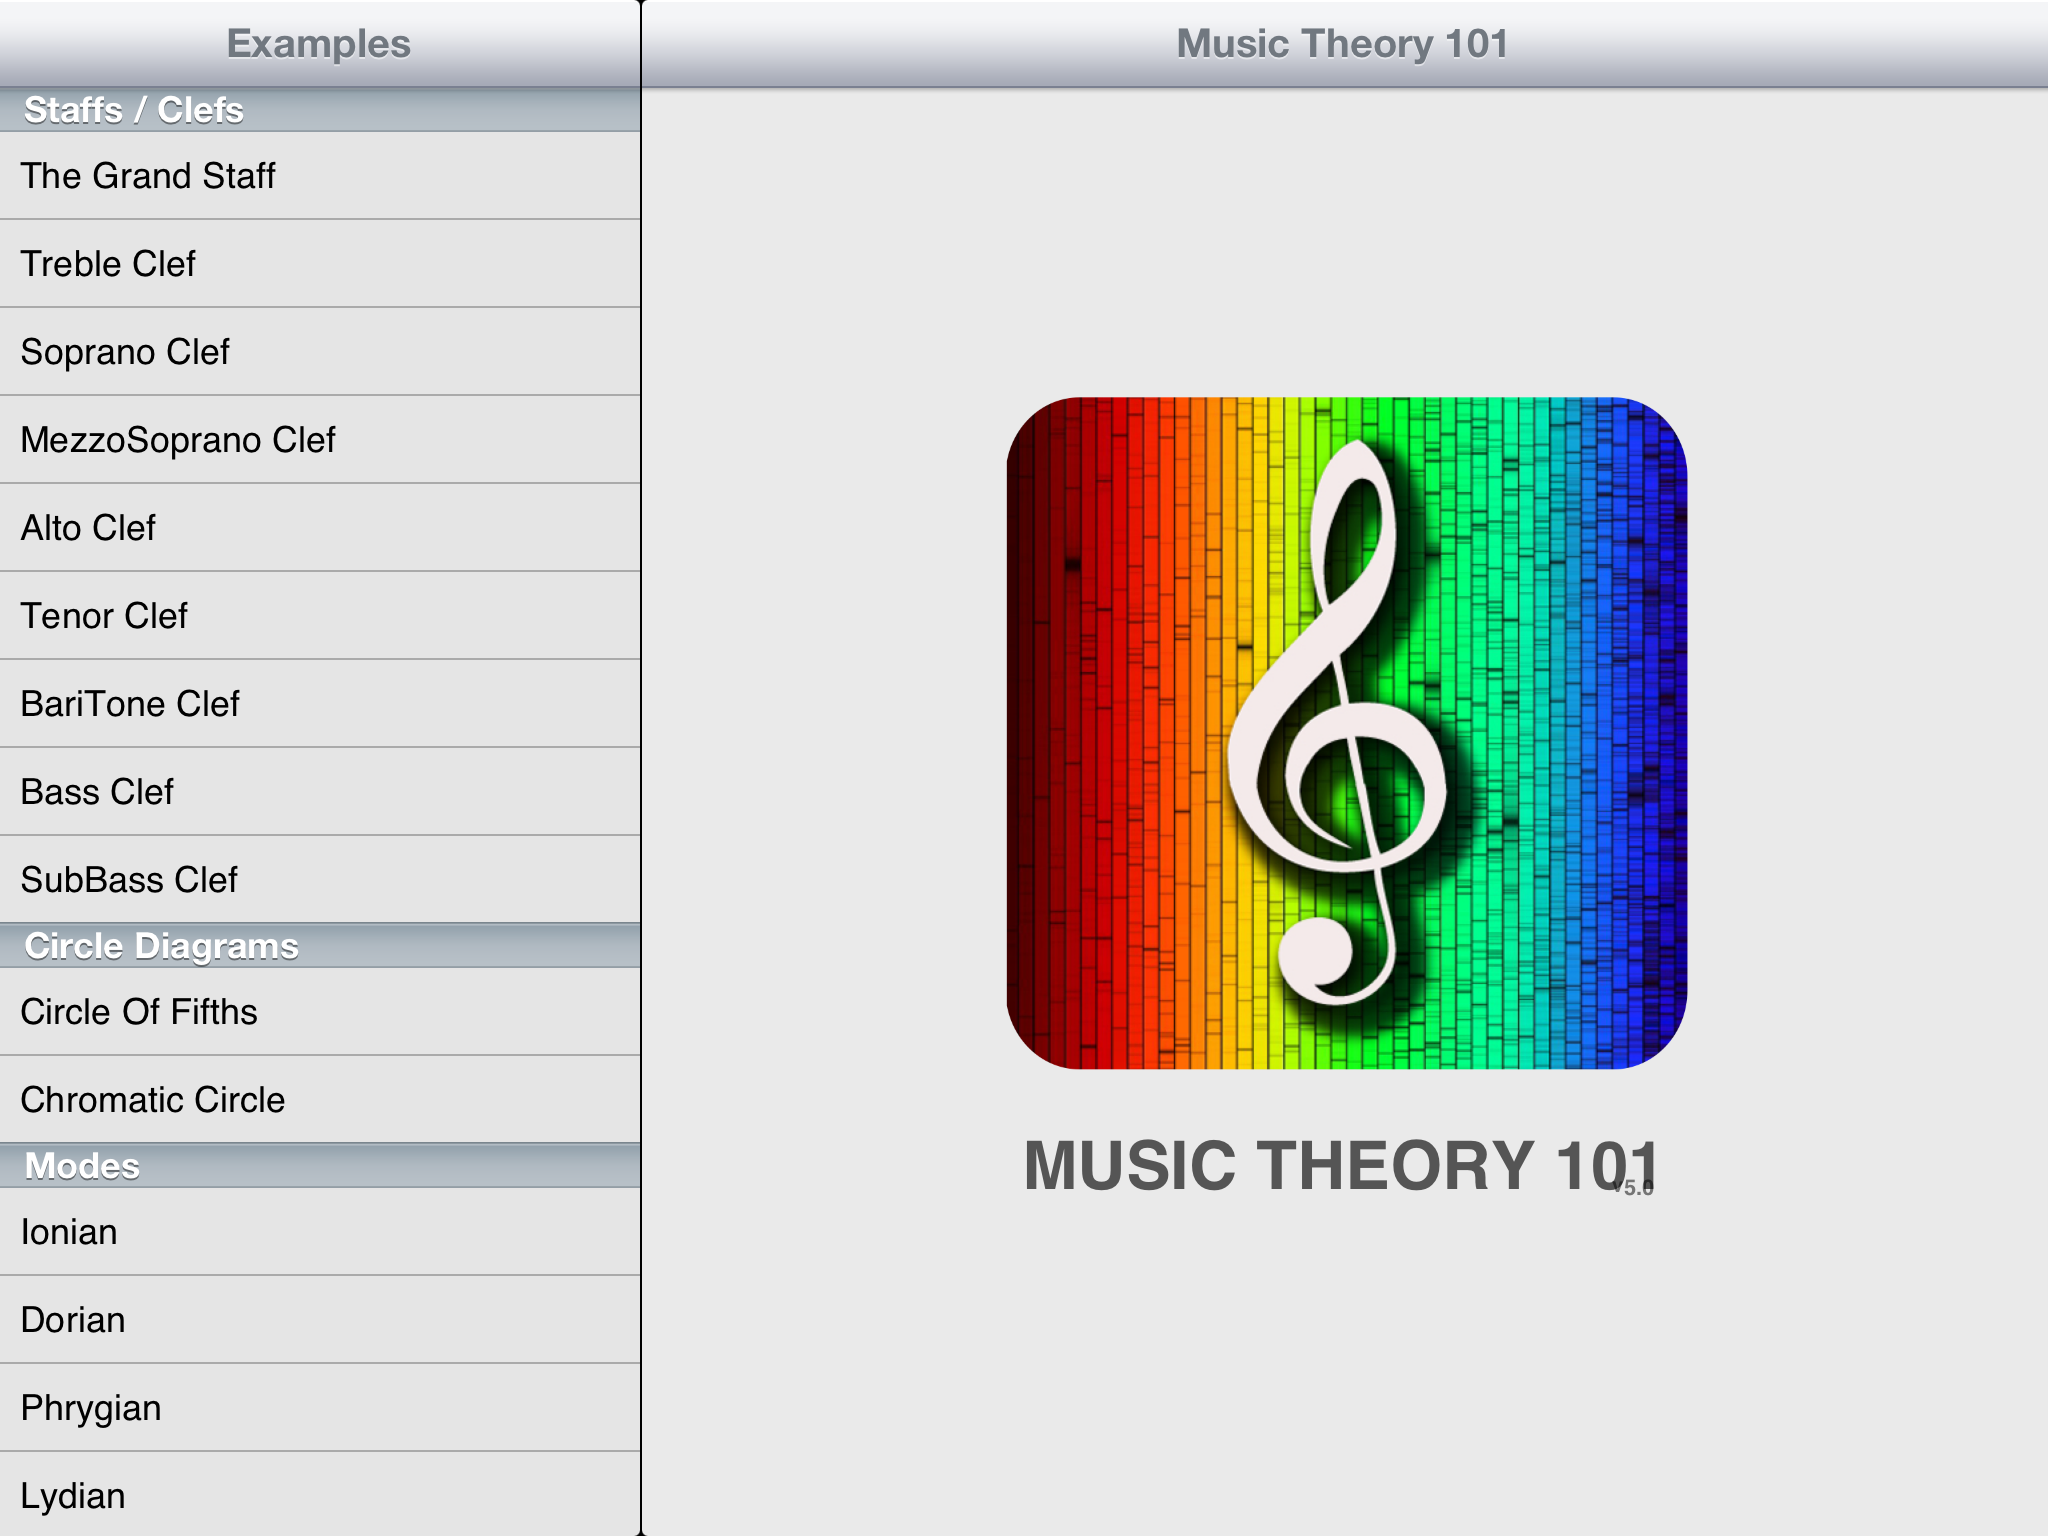
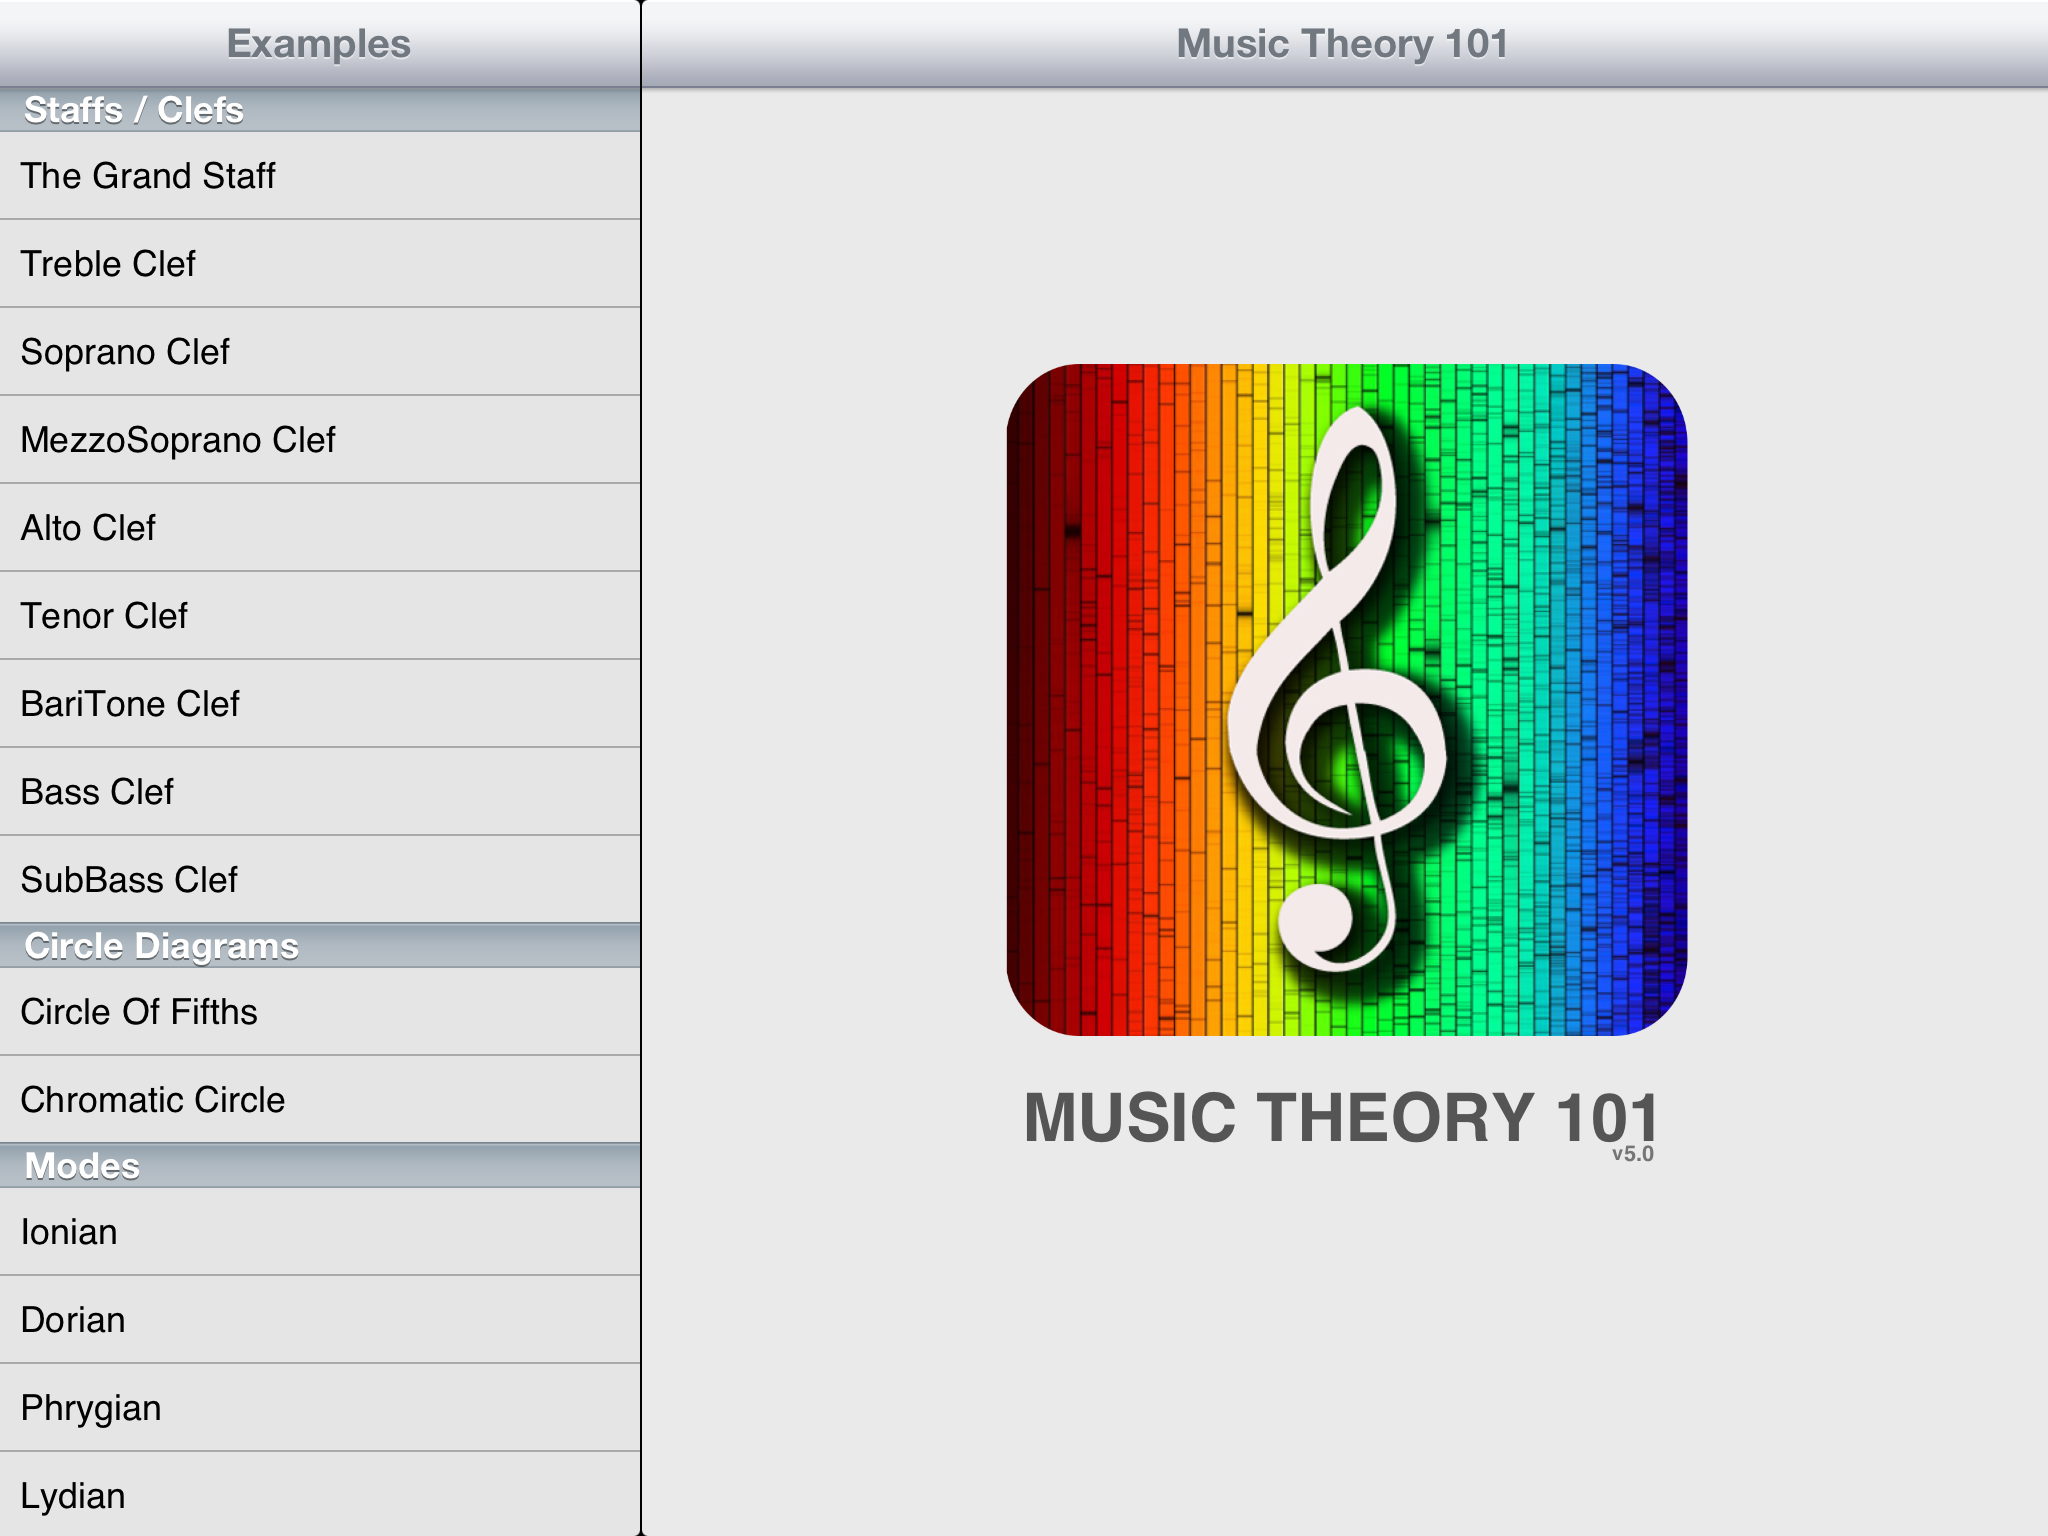
Everything Good….Ready to create video examples I think...

Changed region(s): [[0.4688, 0.2188, 0.8438, 0.7812], [0.5, 0.3438, 0.5312, 0.375]]

diff --git a/MT101/MT101/DetailViewController.m b/MT101/MT101/DetailViewController.m
@@ -402,6 +402,7 @@
     // single tap does nothing for now
 
     if (self.shouldZoom) {
+        self.scrollView.scrollEnabled = TRUE;
 
         NSLog(self.shouldZoom ? @"Yes" : @"No");
         NSLog(@"handleSingleTap");
@@ -417,11 +418,14 @@
         
                 [[self scrollView] setZoomScale:MINIMUM_SCALE animated:TRUE];
                 [[self scrollView] scrollRectToVisible:self.view.frame animated:TRUE];
-        
+                self.scrollView.scrollEnabled = FALSE;
             }
     
     } else {
-        
+        if ([scrollView zoomScale] > 0.0) {//allow user to zoom out if manually zoomed in welcome screen
+                [[self scrollView] setZoomScale:MINIMUM_SCALE animated:TRUE];
+                [[self scrollView] scrollRectToVisible:self.view.frame animated:TRUE];
+            }
         NSLog(self.shouldZoom ? @"Yes" : @"No");
     
     }
@@ -518,7 +522,6 @@
 #endif
 
     if (self.detailItem) {
-        // shouldZoom = NO;
     }
 
     [imageView useWelcomeStyle];
@@ -527,19 +530,19 @@
         // ipad landscape welcome screen formatting
         self.musicTheory101Label.text = @"MUSIC THEORY 101";
         self.musicTheory101Label.frame
-            = CGRectMake([self view].center.x - 163, [self view].center.y + 30, 326, 53);
+            = CGRectMake(imageView.center.x - 163, imageView.center.y + 180, 326, 53);
         [self.musicTheory101Label setFont:[UIFont fontWithName:@"Helvetica-Bold" size:39.0]];
         self.musicTheory101Label.hidden = FALSE;
 
         self.vLabel.text = @"v";
         self.vLabel.frame
-            = CGRectMake([self view].center.x + 82, [self view].center.y + 59.6, 20, 20);
+            = CGRectMake(musicTheory101Label.center.x + 82.5, musicTheory101Label.center.y + 9.6, 20, 20);
         [self.vLabel setFont:[UIFont fontWithName:@"Helvetica-Bold" size:10.0]];
         self.vLabel.hidden = FALSE;
 
         self.detailDescriptionLabel.text = [[[NSBundle mainBundle] infoDictionary] objectForKey:(NSString *)kCFBundleVersionKey];
         self.detailDescriptionLabel.frame
-            = CGRectMake([self view].center.x + 84, [self view].center.y + 60, 30, 20);
+            = CGRectMake(vLabel.center.x-8.5, vLabel.center.y-9.1, 30, 20);
         [self.detailDescriptionLabel setFont:[UIFont fontWithName:@"Helvetica-Bold" size:11.0]];
         self.detailDescriptionLabel.hidden = FALSE;
 
@@ -728,6 +731,8 @@
 - (void)viewDidLoad
 {
     [super viewDidLoad];
+    shouldZoom = FALSE;
+    scrollView.scrollEnabled=FALSE;
     [self configureView];
 } /* viewDidLoad */
 

diff --git a/MT101/ExampleView.m b/MT101/ExampleView.m
@@ -87,8 +87,11 @@
 {
     CGRect rect = self.superview.frame;
 
-    // CGRect rect = VIEWBOUNDS;//self.superview.frame;
-    self.alpha = 1.0;
+// CGRect rect = VIEWBOUNDS;//self.superview.frame;
+
+#if TARGET_IPHONE_SIMULATOR
+    self.alpha = 0.5;
+#endif
     [self setContentMode:(UIViewContentModeScaleAspectFit)];
     //[self setAutoresizingMask:(UIViewAutoresizingNone)];
     [self setAutoresizingMask:(UIViewAutoresizingFlexibleHeight | UIViewAutoresizingFlexibleWidth)];

diff --git a/MT101/MT101/MasterViewController.m b/MT101/MT101/MasterViewController.m
@@ -672,7 +672,7 @@
 {
     
     self.detailViewController.shouldZoom = YES;
- 
+    self.detailViewController.scrollView.scrollEnabled= YES;
     [[self.detailViewController scrollView] setZoomScale:MINIMUM_SCALE animated:TRUE];
     [[self.detailViewController scrollView] scrollRectToVisible:self.detailViewController.view.frame  animated:TRUE] ;
     
